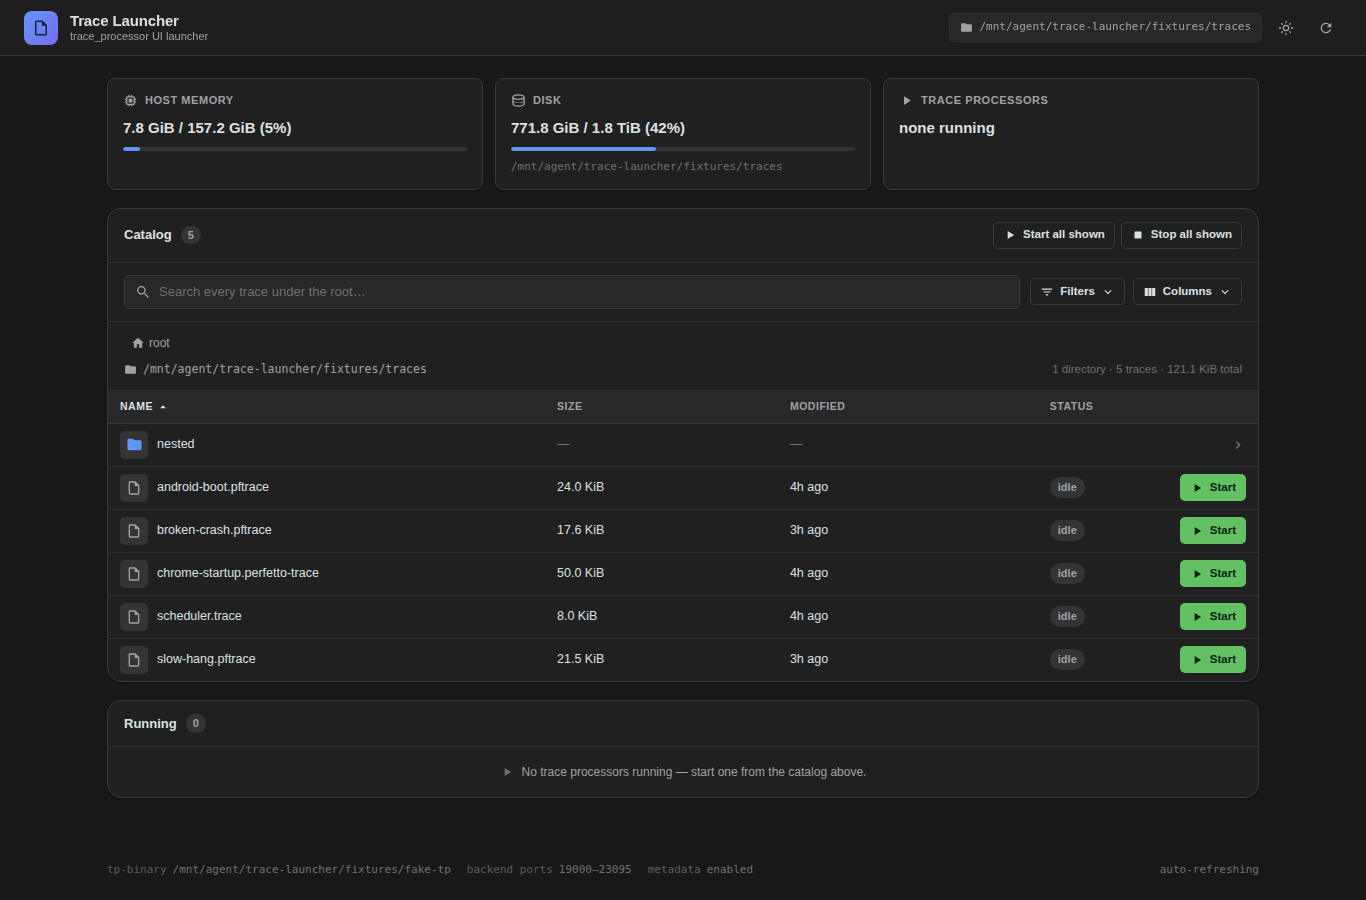
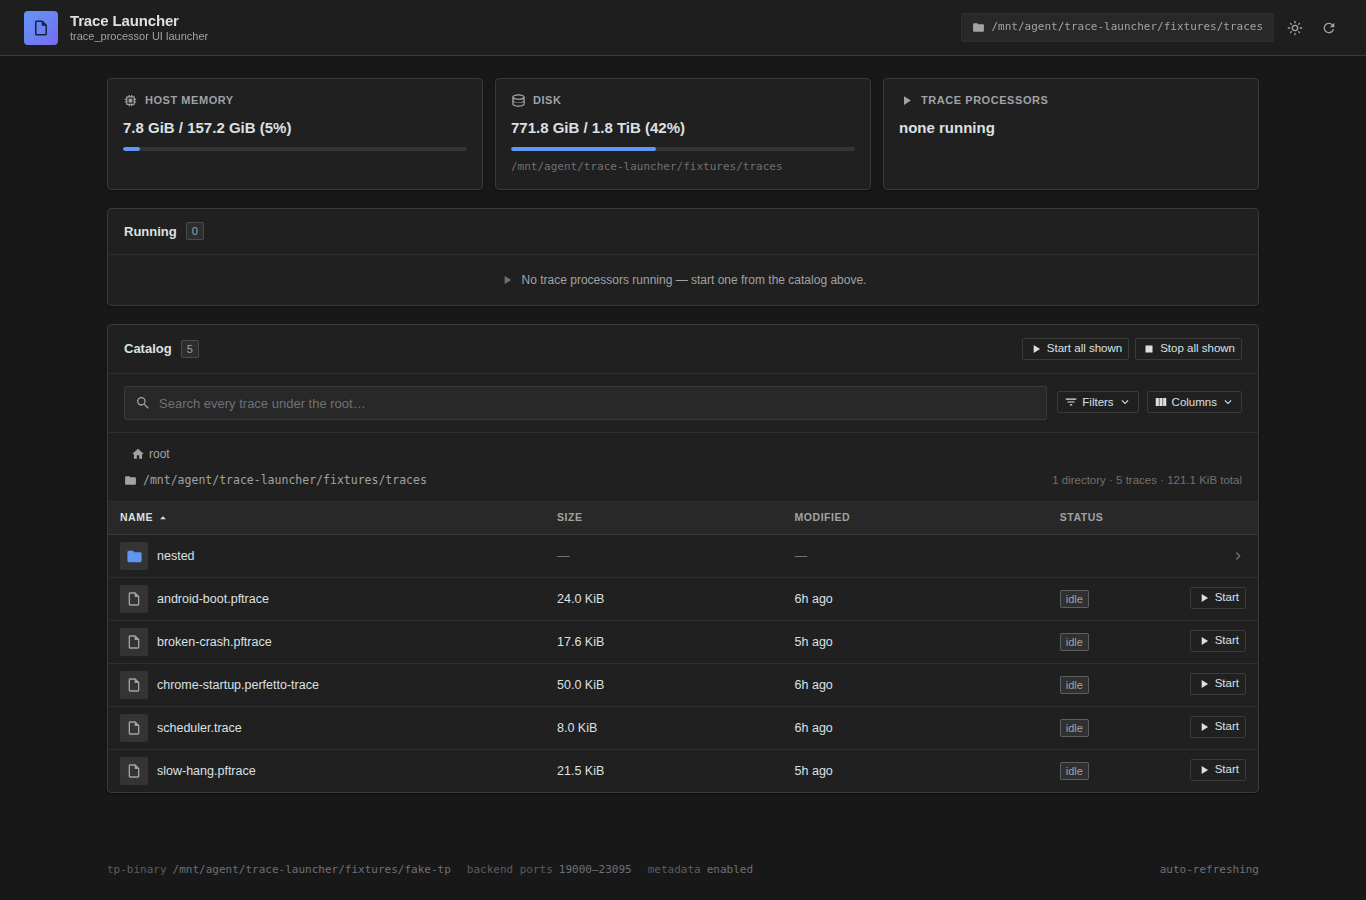
ui: align widget styling with Perfetto's design language
Step back from cards/pills and match the conventions in perfetto/ui's
widgets/button.scss, widgets/chip.scss and theme.scss:

- Radii shrunk to 2px / 4px (was 5/8/14). No 99px pills anywhere; the
  scrollbar thumb, badge, state chip, port chip, filter chip and
  filter-chip close button are all small-square now.
- Buttons drop the fixed 27/32px heights for padding-based sizing
  (4px 8px default, 2px 6px compact), font-weight 500, line-height 1.
  Default filled now uses a transparent + currentColor 8% overlay
  (perfetto's filled-no-intent pattern) instead of a hard token colour.
- State / port / filter / badge chips share Perfetto's .pf-chip recipe:
  thin semi-transparent border in currentColor, ~10-12% currentColor
  background, intent only via the text colour.
- Repeated row-level CTAs (Start, Open) are now outlined-intent instead
  of filled, so blue/green isn't shouting from every row. Retry on a
  crashed child stays filled-primary as the singular call to fix it.

diff --git a/src/styles/app.scss b/src/styles/app.scss
@@ -50,7 +50,6 @@ code {
 }
 ::-webkit-scrollbar-thumb {
   background: var(--pf-color-border);
-  border-radius: 99px;
   border: 3px solid var(--pf-color-void);
 }
 ::-webkit-scrollbar-track {
@@ -267,7 +266,7 @@ code {
 .tl-panel {
   background: var(--pf-color-background);
   border: 1px solid var(--pf-color-border);
-  border-radius: var(--tl-radius-lg);
+  border-radius: var(--tl-radius);
   box-shadow: var(--tl-shadow-1);
   overflow: hidden;
 }
@@ -295,13 +294,15 @@ code {
 }
 
 .tl-badge {
-  min-width: 20px;
-  padding: 1px 7px;
-  border-radius: 99px;
-  background: var(--pf-color-background-tertiary);
+  min-width: 18px;
+  padding: 1px 5px;
+  border-radius: var(--tl-radius-sm);
+  background: color-mix(in srgb, currentColor 10%, transparent);
+  border: 1px solid color-mix(in srgb, currentColor, transparent 75%);
   color: var(--pf-color-text-muted);
   font-size: 11px;
-  font-weight: 600;
+  font-weight: 500;
+  line-height: 1.3;
   text-align: center;
 }
 
@@ -471,12 +472,14 @@ code {
 }
 
 .tl-chip {
-  padding: 1px 7px;
-  border-radius: 4px;
-  background: var(--pf-color-background-tertiary);
+  padding: 1px 5px;
+  border-radius: var(--tl-radius-sm);
+  background: color-mix(in srgb, currentColor 10%, transparent);
+  border: 1px solid color-mix(in srgb, currentColor, transparent 70%);
   color: var(--pf-color-text-muted);
   font-family: var(--tl-mono);
   font-size: 11px;
+  line-height: 1.3;
   flex-shrink: 0;
 }
 
@@ -547,12 +550,14 @@ code {
 .tl-chip-filter {
   display: inline-flex;
   align-items: center;
-  gap: 4px;
-  padding: 3px 4px 3px 9px;
-  border-radius: 99px;
-  background: color-mix(in srgb, var(--pf-color-accent) 14%, var(--pf-color-background));
-  border: 1px solid color-mix(in srgb, var(--pf-color-accent) 35%, transparent);
+  gap: 6px;
+  padding: 2px 4px 2px 7px;
+  border-radius: var(--tl-radius-sm);
+  color: var(--pf-color-accent);
+  background: color-mix(in srgb, var(--pf-color-accent) 12%, transparent);
+  border: 1px solid color-mix(in srgb, var(--pf-color-accent), transparent 60%);
   font-size: 11.5px;
+  line-height: 1.3;
 
   strong {
     font-weight: 600;
@@ -562,11 +567,11 @@ code {
 .tl-chip-filter__remove {
   display: grid;
   place-items: center;
-  width: 18px;
-  height: 18px;
+  width: 16px;
+  height: 16px;
   padding: 0;
   border: none;
-  border-radius: 50%;
+  border-radius: var(--tl-radius-sm);
   background: transparent;
   color: var(--pf-color-text-muted);
   cursor: pointer;
@@ -896,28 +901,27 @@ code {
 
 .tl-state {
   align-self: flex-start;
-  padding: 2px 8px;
-  border-radius: 99px;
+  padding: 1px 5px;
+  border-radius: var(--tl-radius-sm);
+  border: 1px solid color-mix(in srgb, currentColor, transparent 60%);
+  background: color-mix(in srgb, currentColor 12%, transparent);
   font-size: 11px;
-  font-weight: 600;
+  font-weight: 500;
   font-variant-numeric: tabular-nums;
   white-space: nowrap;
+  line-height: 1.3;
 
   &--idle {
     color: var(--pf-color-text-muted);
-    background: var(--pf-color-background-tertiary);
   }
   &--live {
     color: var(--pf-color-success);
-    background: color-mix(in srgb, var(--pf-color-success) 16%, transparent);
   }
   &--starting {
     color: var(--pf-color-warning);
-    background: color-mix(in srgb, var(--pf-color-warning) 16%, transparent);
   }
   &--crashed {
     color: var(--pf-color-danger);
-    background: color-mix(in srgb, var(--pf-color-danger) 16%, transparent);
   }
 }
 
@@ -930,49 +934,49 @@ code {
 // --- buttons -----------------------------------------------------------------
 
 .tl-button {
-  --_bg: var(--pf-color-background-tertiary);
+  --_bg: color-mix(in srgb, transparent, currentColor 8%);
   --_fg: var(--pf-color-text);
   --_bd: transparent;
 
   display: inline-flex;
   align-items: center;
   justify-content: center;
-  gap: 6px;
-  height: 32px;
-  padding: 0 13px;
+  gap: 5px;
+  padding: 4px 8px;
+  min-height: 24px;
   border: 1px solid var(--_bd);
   border-radius: var(--tl-radius-sm);
   background: var(--_bg);
   color: var(--_fg);
   font: inherit;
   font-size: 12px;
-  font-weight: 600;
+  font-weight: 500;
+  line-height: 1;
   white-space: nowrap;
   cursor: pointer;
   transition:
     background var(--tl-transition),
     border-color var(--tl-transition),
-    transform var(--tl-transition),
     opacity var(--tl-transition);
 
   &:hover {
-    background: color-mix(in srgb, var(--_bg), var(--_fg) 12%);
+    background: color-mix(in srgb, var(--_bg), var(--_fg) 10%);
   }
   &:active {
-    transform: translateY(1px);
+    background: color-mix(in srgb, var(--_bg), var(--_fg) 18%);
   }
 
   &--compact {
-    height: 27px;
-    padding: 0 9px;
+    padding: 2px 6px;
+    min-height: 22px;
     font-size: 11.5px;
+    gap: 4px;
   }
   &--icon-only {
-    padding: 0;
-    width: 32px;
+    padding: 4px;
   }
   &--compact.tl-button--icon-only {
-    width: 27px;
+    padding: 3px;
   }
 
   &--primary {
@@ -1071,7 +1075,7 @@ code {
 .tl-progress {
   position: relative;
   height: 4px;
-  border-radius: 99px;
+  border-radius: var(--tl-radius-sm);
   background: var(--pf-color-background-tertiary);
   overflow: hidden;
 }

diff --git a/src/styles/theme.scss b/src/styles/theme.scss
@@ -4,10 +4,10 @@
 // theme never flashes.
 
 :root {
-  // Shape, motion and type — independent of theme.
-  --tl-radius-sm: 5px;
-  --tl-radius: 8px;
-  --tl-radius-lg: 14px;
+  // Shape, motion and type — independent of theme. Radii follow Perfetto:
+  // small for chrome (2px), slightly larger for surfaces (4px). No pills.
+  --tl-radius-sm: 2px;
+  --tl-radius: 4px;
   --tl-transition: 130ms cubic-bezier(0.4, 0, 0.2, 1);
   --tl-font:
     -apple-system, BlinkMacSystemFont, 'Segoe UI', Roboto, Helvetica, Arial,

diff --git a/src/components/app.ts b/src/components/app.ts
@@ -45,7 +45,7 @@ export class App implements m.ClassComponent {
               m('span.tl-spinner.tl-spinner--lg'),
               m('p', 'Loading catalog…'),
             ])
-          : [m(SystemBar), m(CatalogPanel), m(RunningPanel)],
+          : [m(SystemBar), m(RunningPanel), m(CatalogPanel)],
       ]),
       m(Footer),
     ]);

diff --git a/src/components/running_panel.ts b/src/components/running_panel.ts
@@ -107,6 +107,7 @@ class ChildRow implements m.ClassComponent<{child: RunningChild}> {
         label: 'Open',
         icon: 'external',
         intent: 'primary',
+        variant: 'outlined',
         compact: true,
         disabled: !live,
         href: live ? child.perfettoUrl : undefined,

diff --git a/src/components/catalog_panel.ts b/src/components/catalog_panel.ts
@@ -233,6 +233,7 @@ class TraceRow
         label: 'Start',
         icon: 'play',
         intent: 'success',
+        variant: 'outlined',
         compact: true,
         loading: pending,
         onclick: () => void store.open(trace.key),
